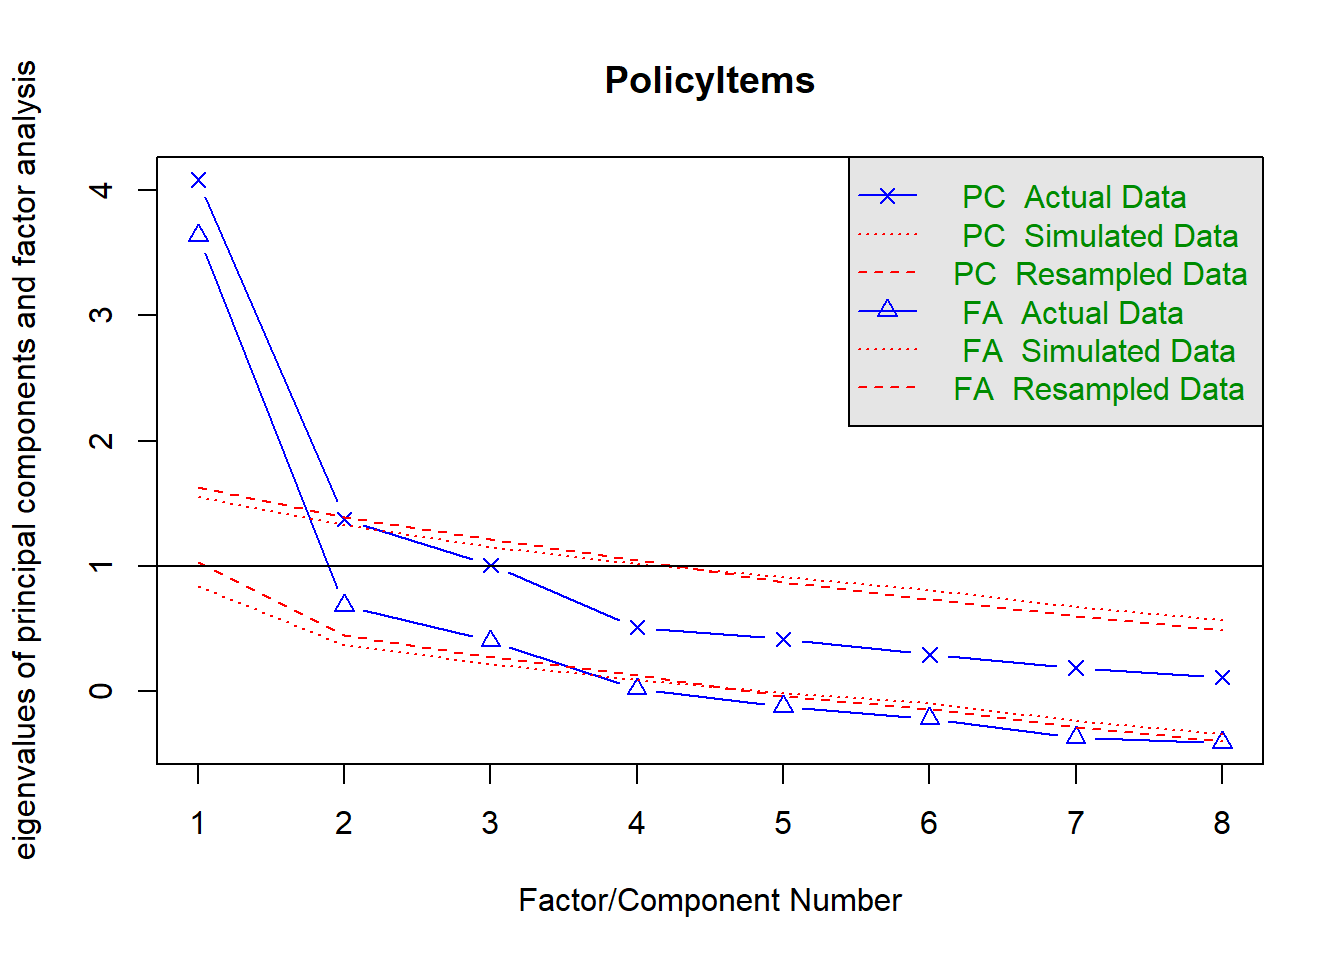
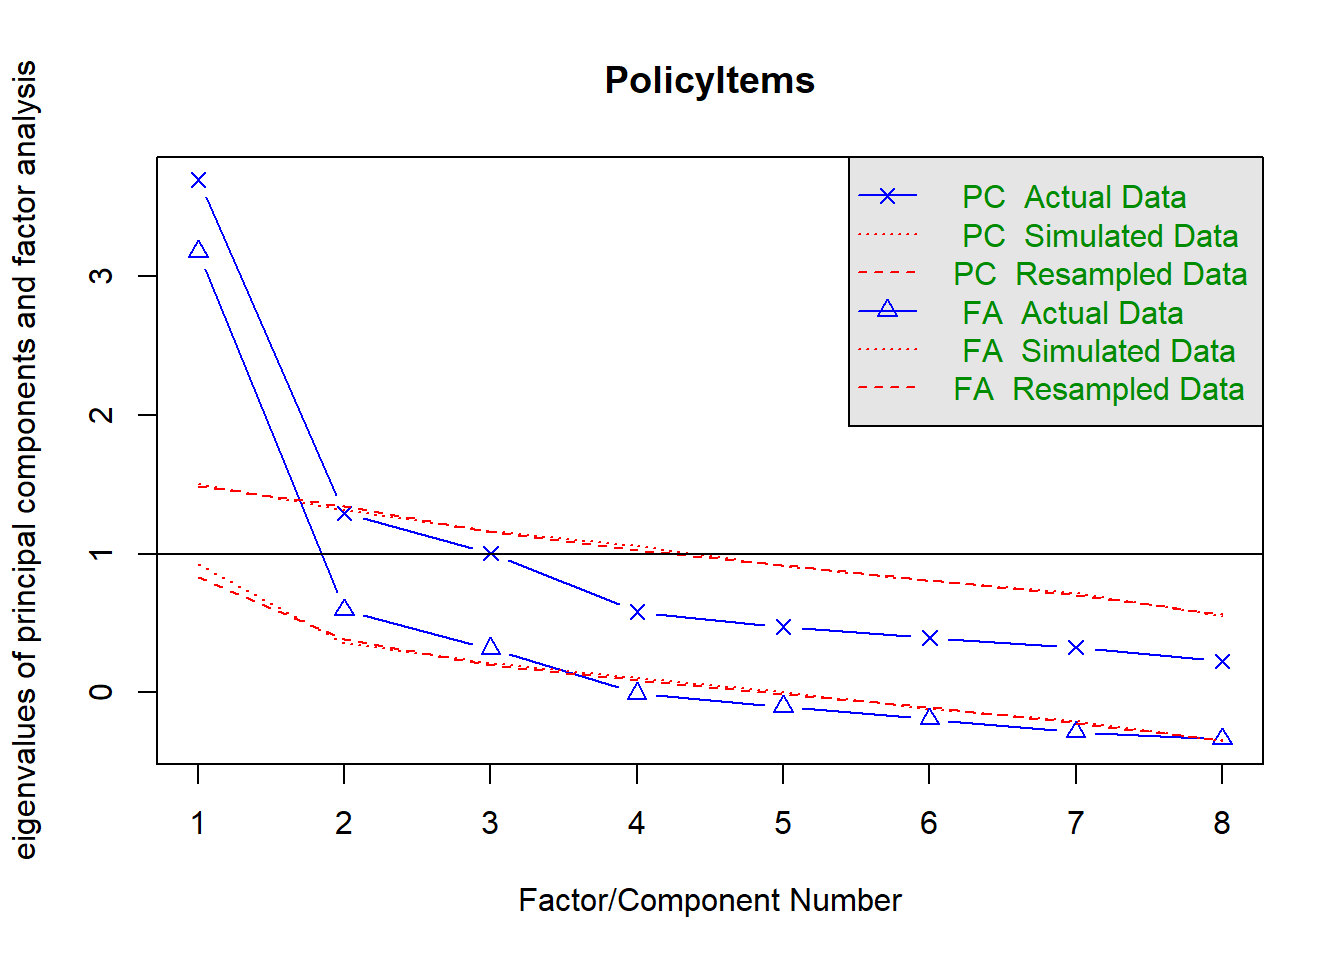
add approximate matching

diff --git a/t12_segCAMs/t12SegCAM_BachelorTheses.html b/t12_segCAMs/t12SegCAM_BachelorTheses.html
@@ -237,13 +237,16 @@ policyItems-8              7    -1.22         0.52    0.00
 
 variables under investigation:  policyItems1 policyItems2 policyItems3 policyItems4 policyItems5 policyItems6 policyItems7 policyItems8 
 
-Cronbachs Alpha: 0.82 </code></pre>
+Cronbachs Alpha: 0.82 
+Error in if (any(lower &gt; upper)) stop("lower&gt;upper integration limits") : 
+  Fehlender Wert, wo TRUE/FALSE nötig ist
+[1] "use instead of polychoric correlations pearson correlations"</code></pre>
 </div>
 <div class="cell-output-display">
 <p><img src="t12SegCAM_BachelorTheses_files/figure-html/unnamed-chunk-3-3.png" class="img-fluid" width="672"></p>
 </div>
 <div class="cell-output cell-output-stdout">
-<pre><code>Parallel analysis suggests that the number of factors =  3  and the number of components =  1 
+<pre><code>Parallel analysis suggests that the number of factors =  2  and the number of components =  1 
 PolicyItems 
 Number of components:  1 
 
@@ -471,10 +474,10 @@ CFA first 6 Modification Indices:
 <span id="cb16-9"><a href="#cb16-9" aria-hidden="true" tabindex="-1"></a></span>
 <span id="cb16-10"><a href="#cb16-10" aria-hidden="true" tabindex="-1"></a><span class="do">### save data set</span></span>
 <span id="cb16-11"><a href="#cb16-11" aria-hidden="true" tabindex="-1"></a><span class="fu">setwd</span>(<span class="st">"outputs/BA_Magdalena"</span>)</span>
-<span id="cb16-12"><a href="#cb16-12" aria-hidden="true" tabindex="-1"></a><span class="cf">if</span>(<span class="sc">!</span><span class="fu">file.exists</span>(<span class="st">"data"</span>)){</span>
-<span id="cb16-13"><a href="#cb16-13" aria-hidden="true" tabindex="-1"></a>  <span class="fu">dir.create</span>(<span class="st">"data"</span>)</span>
+<span id="cb16-12"><a href="#cb16-12" aria-hidden="true" tabindex="-1"></a><span class="cf">if</span>(<span class="sc">!</span><span class="fu">file.exists</span>(<span class="st">"data_AffImg_CAMs"</span>)){</span>
+<span id="cb16-13"><a href="#cb16-13" aria-hidden="true" tabindex="-1"></a>  <span class="fu">dir.create</span>(<span class="st">"data_AffImg_CAMs"</span>)</span>
 <span id="cb16-14"><a href="#cb16-14" aria-hidden="true" tabindex="-1"></a>}</span>
-<span id="cb16-15"><a href="#cb16-15" aria-hidden="true" tabindex="-1"></a><span class="fu">setwd</span>(<span class="st">"data"</span>)</span>
+<span id="cb16-15"><a href="#cb16-15" aria-hidden="true" tabindex="-1"></a><span class="fu">setwd</span>(<span class="st">"data_AffImg_CAMs"</span>)</span>
 <span id="cb16-16"><a href="#cb16-16" aria-hidden="true" tabindex="-1"></a></span>
 <span id="cb16-17"><a href="#cb16-17" aria-hidden="true" tabindex="-1"></a><span class="do">## save as .xlsx file</span></span>
 <span id="cb16-18"><a href="#cb16-18" aria-hidden="true" tabindex="-1"></a>xlsx<span class="sc">::</span><span class="fu">write.xlsx2</span>(<span class="at">x =</span> affectiveImagery_CAMs, <span class="at">file =</span> <span class="st">"affectiveImagery_CAMs.xlsx"</span>)</span>
@@ -486,8 +489,9 @@ CFA first 6 Modification Indices:
 </section>
 <section id="clean-affective-imagery" class="level2">
 <h2 class="anchored" data-anchor-id="clean-affective-imagery">clean affective imagery</h2>
+<p>create relevant subset:</p>
 <div class="cell">
-<div class="sourceCode cell-code" id="cb17"><pre class="sourceCode r code-with-copy"><code class="sourceCode r"><span id="cb17-1"><a href="#cb17-1" aria-hidden="true" tabindex="-1"></a>affectiveImagery <span class="ot">&lt;-</span> t12_questionnaireCAMs[, <span class="fu">c</span>(<span class="st">"PROLIFIC_PID"</span>, <span class="st">"country.y"</span>, <span class="st">"classes_conspiracy"</span>, <span class="st">"politicalParty"</span>, <span class="st">"socio_sex"</span>,</span>
+<div class="sourceCode cell-code" id="cb17"><pre class="sourceCode r code-with-copy"><code class="sourceCode r"><span id="cb17-1"><a href="#cb17-1" aria-hidden="true" tabindex="-1"></a>affectiveImagery <span class="ot">&lt;-</span> t12_questionnaireCAMs[, <span class="fu">c</span>(<span class="st">"PROLIFIC_PID"</span>, <span class="st">"country.x"</span>, <span class="st">"classes_conspiracy"</span>, <span class="st">"politicalParty"</span>, <span class="st">"socio_sex"</span>,</span>
 <span id="cb17-2"><a href="#cb17-2" aria-hidden="true" tabindex="-1"></a>  <span class="st">"mean_affImg"</span>,</span>
 <span id="cb17-3"><a href="#cb17-3" aria-hidden="true" tabindex="-1"></a>  <span class="fu">str_subset</span>(<span class="at">string =</span> <span class="fu">colnames</span>(tmp_dat), <span class="at">pattern =</span> <span class="st">"^R[:digit:]"</span>), </span>
 <span id="cb17-4"><a href="#cb17-4" aria-hidden="true" tabindex="-1"></a>  <span class="fu">sort</span>(<span class="fu">str_subset</span>(<span class="at">string =</span> <span class="fu">colnames</span>(tmp_dat), <span class="at">pattern =</span> <span class="st">"^affImg"</span>)))]</span>
@@ -495,29 +499,80 @@ CFA first 6 Modification Indices:
 <div class="cell-output cell-output-stdout">
 <pre><code>[1] 14</code></pre>
 </div>
-<div class="sourceCode cell-code" id="cb19"><pre class="sourceCode r code-with-copy"><code class="sourceCode r"><span id="cb19-1"><a href="#cb19-1" aria-hidden="true" tabindex="-1"></a>tmp_vec <span class="ot">&lt;-</span> <span class="fu">unlist</span>(affectiveImagery[, <span class="fu">str_subset</span>(<span class="at">string =</span> <span class="fu">colnames</span>(tmp_dat), <span class="at">pattern =</span> <span class="st">"^R[:digit:]"</span>)])</span>
-<span id="cb19-2"><a href="#cb19-2" aria-hidden="true" tabindex="-1"></a><span class="fu">length</span>(tmp_vec)</span></code><button title="Copy to Clipboard" class="code-copy-button"><i class="bi"></i></button></pre></div>
-<div class="cell-output cell-output-stdout">
-<pre><code>[1] 2990</code></pre>
 </div>
-<div class="sourceCode cell-code" id="cb21"><pre class="sourceCode r code-with-copy"><code class="sourceCode r"><span id="cb21-1"><a href="#cb21-1" aria-hidden="true" tabindex="-1"></a><span class="fu">length</span>(<span class="fu">unique</span>(tmp_vec))</span></code><button title="Copy to Clipboard" class="code-copy-button"><i class="bi"></i></button></pre></div>
-<div class="cell-output cell-output-stdout">
-<pre><code>[1] 1337</code></pre>
-</div>
-<div class="sourceCode cell-code" id="cb23"><pre class="sourceCode r code-with-copy"><code class="sourceCode r"><span id="cb23-1"><a href="#cb23-1" aria-hidden="true" tabindex="-1"></a><span class="fu">names</span>(<span class="fu">table</span>(tmp_vec))[<span class="fu">table</span>(tmp_vec) <span class="sc">&gt;=</span> <span class="dv">10</span>]</span></code><button title="Copy to Clipboard" class="code-copy-button"><i class="bi"></i></button></pre></div>
-<div class="cell-output cell-output-stdout">
-<pre><code> [1] "Artensterben"      "bad"               "Bedrohung"        
- [4] "CO2"               "dangerous"         "death"            
- [7] "drought"           "Dürre"             "earth"            
-[10] "Erderwärmung"      "Erwärmung"         "Gefahr"           
-[13] "global"            "global warming"    "heat"             
-[16] "Hitze"             "hoax"              "hot"              
-[19] "Industrie"         "Katastrophe"       "menschengemacht"  
-[22] "Menschengemacht"   "Natur"             "natural"          
-[25] "Naturkatastrophen" "Politik"           "real"             
-[28] "scary"             "storms"            "Temperatur"       
-[31] "Umwelt"            "warm"              "weather"          </code></pre>
-</div>
+<p>use approximate matching only for German:</p>
+<div class="cell">
+<div class="sourceCode cell-code" id="cb19"><pre class="sourceCode r code-with-copy"><code class="sourceCode r"><span id="cb19-1"><a href="#cb19-1" aria-hidden="true" tabindex="-1"></a>subset_affectiveImagery <span class="ot">&lt;-</span> affectiveImagery[affectiveImagery<span class="sc">$</span>country.x <span class="sc">==</span> <span class="st">"Germany"</span>,]</span>
+<span id="cb19-2"><a href="#cb19-2" aria-hidden="true" tabindex="-1"></a></span>
+<span id="cb19-3"><a href="#cb19-3" aria-hidden="true" tabindex="-1"></a>tmp_vec <span class="ot">&lt;-</span> <span class="fu">unlist</span>(subset_affectiveImagery[, <span class="fu">str_subset</span>(<span class="at">string =</span> <span class="fu">colnames</span>(tmp_dat), <span class="at">pattern =</span> <span class="st">"^R[:digit:]"</span>)])</span>
+<span id="cb19-4"><a href="#cb19-4" aria-hidden="true" tabindex="-1"></a>tmp_vec <span class="ot">&lt;-</span> tmp_vec[<span class="sc">!</span><span class="fu">is.na</span>(tmp_vec)]</span>
+<span id="cb19-5"><a href="#cb19-5" aria-hidden="true" tabindex="-1"></a></span>
+<span id="cb19-6"><a href="#cb19-6" aria-hidden="true" tabindex="-1"></a>applyApproximate <span class="ot">&lt;-</span> <span class="fu">data.frame</span>(<span class="at">originalWord =</span> tmp_vec, <span class="at">summarizedWord =</span> tmp_vec)</span>
+<span id="cb19-7"><a href="#cb19-7" aria-hidden="true" tabindex="-1"></a></span>
+<span id="cb19-8"><a href="#cb19-8" aria-hidden="true" tabindex="-1"></a></span>
+<span id="cb19-9"><a href="#cb19-9" aria-hidden="true" tabindex="-1"></a><span class="fu">rm</span>(subset_affectiveImagery); <span class="fu">rm</span>(tmp_vec)</span>
+<span id="cb19-10"><a href="#cb19-10" aria-hidden="true" tabindex="-1"></a></span>
+<span id="cb19-11"><a href="#cb19-11" aria-hidden="true" tabindex="-1"></a><span class="fu">length</span>(applyApproximate<span class="sc">$</span>originalWord)</span>
+<span id="cb19-12"><a href="#cb19-12" aria-hidden="true" tabindex="-1"></a><span class="fu">length</span>(<span class="fu">unique</span>(applyApproximate<span class="sc">$</span>originalWord))</span>
+<span id="cb19-13"><a href="#cb19-13" aria-hidden="true" tabindex="-1"></a><span class="fu">names</span>(<span class="fu">table</span>(applyApproximate<span class="sc">$</span>originalWord))[<span class="fu">table</span>(applyApproximate<span class="sc">$</span>originalWord) <span class="sc">&gt;=</span> <span class="dv">10</span>]</span>
+<span id="cb19-14"><a href="#cb19-14" aria-hidden="true" tabindex="-1"></a></span>
+<span id="cb19-15"><a href="#cb19-15" aria-hidden="true" tabindex="-1"></a></span>
+<span id="cb19-16"><a href="#cb19-16" aria-hidden="true" tabindex="-1"></a></span>
+<span id="cb19-17"><a href="#cb19-17" aria-hidden="true" tabindex="-1"></a>readkey <span class="ot">&lt;-</span> <span class="cf">function</span>()</span>
+<span id="cb19-18"><a href="#cb19-18" aria-hidden="true" tabindex="-1"></a>{</span>
+<span id="cb19-19"><a href="#cb19-19" aria-hidden="true" tabindex="-1"></a>  <span class="co"># cat ('\nPress [enter] to continue\n')</span></span>
+<span id="cb19-20"><a href="#cb19-20" aria-hidden="true" tabindex="-1"></a>  <span class="co"># cat('or write "aaa" in the console to terminate loop\n')</span></span>
+<span id="cb19-21"><a href="#cb19-21" aria-hidden="true" tabindex="-1"></a></span>
+<span id="cb19-22"><a href="#cb19-22" aria-hidden="true" tabindex="-1"></a>  line <span class="ot">&lt;-</span> <span class="fu">readline</span>()</span>
+<span id="cb19-23"><a href="#cb19-23" aria-hidden="true" tabindex="-1"></a>  <span class="cf">if</span>(line <span class="sc">==</span> <span class="st">"a123"</span>){</span>
+<span id="cb19-24"><a href="#cb19-24" aria-hidden="true" tabindex="-1"></a>    <span class="fu">cat</span>(<span class="st">"for loop terminated, please write down the last round where you have summarized words:"</span>,</span>
+<span id="cb19-25"><a href="#cb19-25" aria-hidden="true" tabindex="-1"></a>        i, <span class="st">"</span><span class="sc">\n</span><span class="st">"</span>)</span>
+<span id="cb19-26"><a href="#cb19-26" aria-hidden="true" tabindex="-1"></a>    <span class="fu">stop</span>(<span class="st">"process terminated"</span>)</span>
+<span id="cb19-27"><a href="#cb19-27" aria-hidden="true" tabindex="-1"></a>  }<span class="cf">else</span>{</span>
+<span id="cb19-28"><a href="#cb19-28" aria-hidden="true" tabindex="-1"></a>    <span class="fu">return</span>(line)</span>
+<span id="cb19-29"><a href="#cb19-29" aria-hidden="true" tabindex="-1"></a>  }</span>
+<span id="cb19-30"><a href="#cb19-30" aria-hidden="true" tabindex="-1"></a>}</span>
+<span id="cb19-31"><a href="#cb19-31" aria-hidden="true" tabindex="-1"></a></span>
+<span id="cb19-32"><a href="#cb19-32" aria-hidden="true" tabindex="-1"></a>defineDistance <span class="ot">=</span> <span class="dv">2</span></span>
+<span id="cb19-33"><a href="#cb19-33" aria-hidden="true" tabindex="-1"></a></span>
+<span id="cb19-34"><a href="#cb19-34" aria-hidden="true" tabindex="-1"></a><span class="cf">for</span>(i <span class="cf">in</span> <span class="dv">1</span><span class="sc">:</span><span class="fu">nrow</span>(applyApproximate)){</span>
+<span id="cb19-35"><a href="#cb19-35" aria-hidden="true" tabindex="-1"></a>  <span class="fu">print</span>(i)</span>
+<span id="cb19-36"><a href="#cb19-36" aria-hidden="true" tabindex="-1"></a>  </span>
+<span id="cb19-37"><a href="#cb19-37" aria-hidden="true" tabindex="-1"></a>  dist <span class="ot">&lt;-</span> stringdist<span class="sc">::</span><span class="fu">stringdist</span>(<span class="at">a =</span> applyApproximate<span class="sc">$</span>originalWord[i], applyApproximate<span class="sc">$</span>originalWord)</span>
+<span id="cb19-38"><a href="#cb19-38" aria-hidden="true" tabindex="-1"></a></span>
+<span id="cb19-39"><a href="#cb19-39" aria-hidden="true" tabindex="-1"></a></span>
+<span id="cb19-40"><a href="#cb19-40" aria-hidden="true" tabindex="-1"></a>  </span>
+<span id="cb19-41"><a href="#cb19-41" aria-hidden="true" tabindex="-1"></a><span class="cf">if</span>(<span class="sc">!</span><span class="fu">all</span>(<span class="fu">unique</span>(applyApproximate<span class="sc">$</span>originalWord[dist <span class="sc">&lt;=</span> defineDistance]) <span class="sc">==</span> applyApproximate<span class="sc">$</span>originalWord[i])){</span>
+<span id="cb19-42"><a href="#cb19-42" aria-hidden="true" tabindex="-1"></a>  </span>
+<span id="cb19-43"><a href="#cb19-43" aria-hidden="true" tabindex="-1"></a>  <span class="fu">cat</span>(<span class="st">"</span><span class="sc">\n</span><span class="st"> if you want to summarize the followings words:</span><span class="sc">\n</span><span class="st">"</span>)</span>
+<span id="cb19-44"><a href="#cb19-44" aria-hidden="true" tabindex="-1"></a>  <span class="fu">print</span>(<span class="fu">unique</span>(applyApproximate<span class="sc">$</span>originalWord[dist <span class="sc">&lt;=</span> defineDistance]))</span>
+<span id="cb19-45"><a href="#cb19-45" aria-hidden="true" tabindex="-1"></a>  </span>
+<span id="cb19-46"><a href="#cb19-46" aria-hidden="true" tabindex="-1"></a>  <span class="fu">cat</span>(<span class="st">'&gt;&gt;&gt; provide a superordinate word, else write "c" (for continue) or write "a123" to stop the summary process'</span>)</span>
+<span id="cb19-47"><a href="#cb19-47" aria-hidden="true" tabindex="-1"></a></span>
+<span id="cb19-48"><a href="#cb19-48" aria-hidden="true" tabindex="-1"></a> </span>
+<span id="cb19-49"><a href="#cb19-49" aria-hidden="true" tabindex="-1"></a>  out <span class="ot">&lt;-</span> <span class="fu">readkey</span>() </span>
+<span id="cb19-50"><a href="#cb19-50" aria-hidden="true" tabindex="-1"></a>  <span class="co"># print(out)</span></span>
+<span id="cb19-51"><a href="#cb19-51" aria-hidden="true" tabindex="-1"></a>  </span>
+<span id="cb19-52"><a href="#cb19-52" aria-hidden="true" tabindex="-1"></a>  <span class="cf">if</span>(out <span class="sc">!=</span> <span class="st">"c"</span>){</span>
+<span id="cb19-53"><a href="#cb19-53" aria-hidden="true" tabindex="-1"></a>      applyApproximate<span class="sc">$</span>summarizedWord[applyApproximate<span class="sc">$</span>summarizedWord <span class="sc">%in%</span> <span class="fu">unique</span>(applyApproximate<span class="sc">$</span>originalWord[dist <span class="sc">&lt;=</span> defineDistance])] <span class="ot">&lt;-</span> out</span>
+<span id="cb19-54"><a href="#cb19-54" aria-hidden="true" tabindex="-1"></a>  }</span>
+<span id="cb19-55"><a href="#cb19-55" aria-hidden="true" tabindex="-1"></a>}</span>
+<span id="cb19-56"><a href="#cb19-56" aria-hidden="true" tabindex="-1"></a>}</span>
+<span id="cb19-57"><a href="#cb19-57" aria-hidden="true" tabindex="-1"></a></span>
+<span id="cb19-58"><a href="#cb19-58" aria-hidden="true" tabindex="-1"></a></span>
+<span id="cb19-59"><a href="#cb19-59" aria-hidden="true" tabindex="-1"></a><span class="do">### save data set</span></span>
+<span id="cb19-60"><a href="#cb19-60" aria-hidden="true" tabindex="-1"></a><span class="fu">setwd</span>(<span class="st">"outputs/BA_Magdalena"</span>)</span>
+<span id="cb19-61"><a href="#cb19-61" aria-hidden="true" tabindex="-1"></a><span class="cf">if</span>(<span class="sc">!</span><span class="fu">file.exists</span>(<span class="st">"data"</span>)){</span>
+<span id="cb19-62"><a href="#cb19-62" aria-hidden="true" tabindex="-1"></a>  <span class="fu">dir.create</span>(<span class="st">"data_AffImg"</span>)</span>
+<span id="cb19-63"><a href="#cb19-63" aria-hidden="true" tabindex="-1"></a>}</span>
+<span id="cb19-64"><a href="#cb19-64" aria-hidden="true" tabindex="-1"></a><span class="fu">setwd</span>(<span class="st">"data_AffImg"</span>)</span>
+<span id="cb19-65"><a href="#cb19-65" aria-hidden="true" tabindex="-1"></a></span>
+<span id="cb19-66"><a href="#cb19-66" aria-hidden="true" tabindex="-1"></a><span class="do">## save as .xlsx file</span></span>
+<span id="cb19-67"><a href="#cb19-67" aria-hidden="true" tabindex="-1"></a>xlsx<span class="sc">::</span><span class="fu">write.xlsx2</span>(<span class="at">x =</span> applyApproximate, <span class="at">file =</span> <span class="st">"applyApproximate.xlsx"</span>)</span>
+<span id="cb19-68"><a href="#cb19-68" aria-hidden="true" tabindex="-1"></a><span class="do">## save as .csv file</span></span>
+<span id="cb19-69"><a href="#cb19-69" aria-hidden="true" tabindex="-1"></a><span class="fu">write.csv2</span>(<span class="at">x =</span> applyApproximate, <span class="at">file =</span> <span class="st">"applyApproximate.csv"</span>)</span>
+<span id="cb19-70"><a href="#cb19-70" aria-hidden="true" tabindex="-1"></a><span class="do">## save as R object</span></span>
+<span id="cb19-71"><a href="#cb19-71" aria-hidden="true" tabindex="-1"></a><span class="fu">saveRDS</span>(applyApproximate, <span class="at">file =</span> <span class="st">"applyApproximate.rds"</span>)</span></code><button title="Copy to Clipboard" class="code-copy-button"><i class="bi"></i></button></pre></div>
 </div>
 </section>
 </section>
